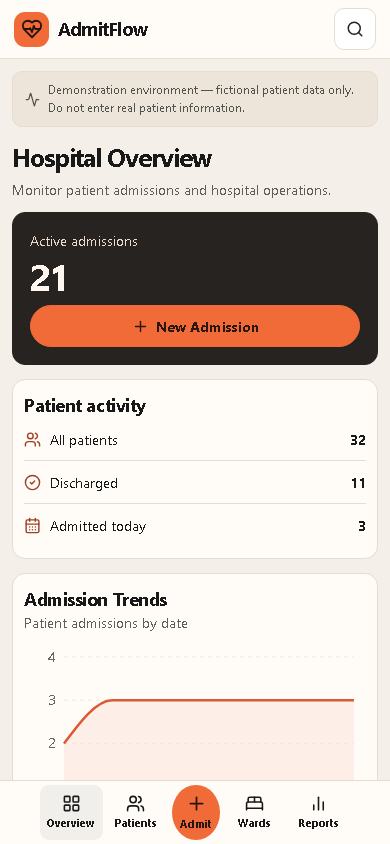
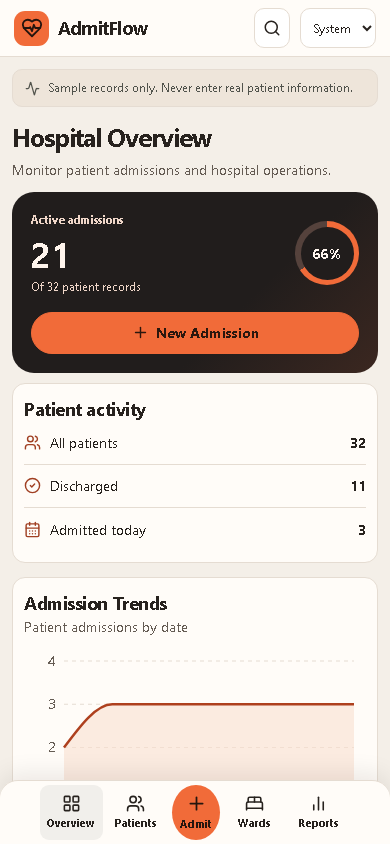
Add admissions themes and handle API availability failures

diff --git a/frontend/src/App.tsx b/frontend/src/App.tsx
@@ -6,6 +6,7 @@ import {motion,useReducedMotion} from 'motion/react'
 import {Area,AreaChart,CartesianGrid,ResponsiveContainer,Tooltip,XAxis,YAxis} from 'recharts'
 import {api,base,businessDay,displayDate,initials,type Catalog,type Page,type Patient,type Summary} from './api'
 import {Admission,Dialog} from './forms'
+import {ThemeControl} from './theme'
 
 const nav = [['/','Overview',LayoutGrid],['/patients','Patients',Users],['/wards','Wards',BedDouble],['/reports','Reports',ChartNoAxesColumn]] as const
 type Overlay = {kind:'new'} | {kind:'edit'|'detail'|'delete'|'discharge';patient:Patient}
@@ -25,7 +26,7 @@ function New({open}:{open:Open}) {
   return <button className="primary" onClick={()=>open({kind:'new'})}><Plus size={17}/> New Admission</button>
 }
 function DataState({error,retry}:{error:boolean;retry:()=>void}) {
-  return error?<div role="alert" className="panel empty">Unable to load data. <button onClick={retry}>Try again</button></div>:<div className="panel loading" role="status">Loading…</div>
+  return error?<div role="alert" className="panel empty">Could not load admissions. <button onClick={retry}>Try again</button></div>:<div className="panel loading" role="status">Loading…</div>
 }
 function Heading({title,description,children}:{title:string;description:string;children?:React.ReactNode}) {
   return <div className="heading"><div><h1>{title}</h1><p>{description}</p></div><div className="row">{children}</div></div>
@@ -35,7 +36,7 @@ function Metrics({summary}:{summary:Summary}) {
   return <div className="metrics">{metrics.map(([label,value,subtitle,Icon])=><section key={label} className="panel metric"><span className="metric-icon"><Icon size={19}/></span><span>{label}</span><strong>{value}</strong><small>{subtitle}</small></section>)}</div>
 }
 function Trend({summary}:{summary:Summary}) {
-  return <section className="panel"><h2>Admission Trends</h2><p className="muted">Patient admissions by date</p><div className="chart" role="img" aria-label={summary.trend.map(point=>point.date+': '+point.count).join(', ') || 'No admissions in this period'}><ResponsiveContainer width="100%" height="100%"><AreaChart data={summary.trend.map(point=>({...point,day:point.date.slice(5)}))} margin={{left:-20,right:12,top:12}}><CartesianGrid vertical={false} stroke="#eae7e2" strokeDasharray="4 4"/><XAxis dataKey="day" tickLine={false} axisLine={false}/><YAxis allowDecimals={false} tickLine={false} axisLine={false}/><Tooltip/><Area type="monotone" dataKey="count" name="Admissions" fill="#fce6de" stroke="#db5933" strokeWidth={2.5} isAnimationActive={false}/></AreaChart></ResponsiveContainer></div></section>
+  return <section className="panel"><h2>Admission Trends</h2><p className="muted">Patient admissions by date</p><div className="chart" role="img" aria-label={summary.trend.map(point=>point.date+': '+point.count).join(', ') || 'No admissions in this period'}><ResponsiveContainer width="100%" height="100%"><AreaChart data={summary.trend.map(point=>({...point,day:point.date.slice(5)}))} margin={{left:-20,right:12,top:12}}><CartesianGrid vertical={false} stroke="var(--line)" strokeDasharray="4 4"/><XAxis dataKey="day" tickLine={false} axisLine={false}/><YAxis allowDecimals={false} tickLine={false} axisLine={false}/><Tooltip contentStyle={{background:"var(--surface)",borderColor:"var(--line)",color:"var(--ink)"}} itemStyle={{color:"var(--ink)"}}/><Area type="monotone" dataKey="count" name="Admissions" fill="var(--chart-fill)" stroke="var(--chart-stroke)" strokeWidth={2.5} isAnimationActive={false}/></AreaChart></ResponsiveContainer></div></section>
 }
 function Distribution({title,entries}:{title:string;entries:[string,number][]}) {
   const highest=Math.max(1,...entries.map(([,number])=>number))
@@ -49,6 +50,7 @@ function PatientRows({rows,catalog,open,sort,onSort}:{rows:Patient[];catalog:Cat
   </tr>)}</tbody></table>
 }
 function Overview({summary,catalog,open}:{summary:Summary;catalog:Catalog;open:Open}) {
+  const activeShare=summary.total ? Math.round(summary.admitted / summary.total * 100) : 0
   const recent=useQuery({queryKey:['patients','recent'],queryFn:()=>api<Page>('/patients?page_size=5&sort_by=created_at')})
   return <>
     <Heading title="Hospital Overview" description="Monitor patient admissions and hospital operations.">
@@ -57,8 +59,12 @@ function Overview({summary,catalog,open}:{summary:Summary;catalog:Catalog;open:O
     <div className="overview-workspace">
       <aside className="overview-queue">
         <section className="panel priority">
-          <span>Active admissions</span>
-          <strong>{summary.admitted}</strong>
+          <div className="priority-content">
+            <div><h2>Active admissions</h2><strong>{summary.admitted}</strong><p>Of {summary.total} patient records</p></div>
+            <div className="admission-ring" style={{background: 'conic-gradient(var(--accent) '+activeShare+'%, var(--ring-track) 0)'}}>
+              <span aria-label={activeShare+'% of records are active'}>{activeShare}%</span>
+            </div>
+          </div>
           <New open={open}/>
         </section>
         <section className="panel queue-links">
@@ -180,8 +186,8 @@ export default function App() {
   const close=()=>open(null)
   const saved=(message:string)=>{close();setNotice(message);for(const key of ['patients','summary','reports'])void cache.invalidateQueries({queryKey:[key]})}
   const lookups=catalog.data
-  return <><a className="skip" href="#main" onClick={event=>{event.preventDefault();document.getElementById('main')?.focus()}}>Skip to content</a><header className="top"><div className="top-inner"><Link to="/" className="brand"><span><HeartPulse size={22}/></span>AdmitFlow</Link><nav aria-label="Primary navigation" className="desktop-nav">{nav.map(([href,label])=><NavLink key={href} to={href} end={href==='/'}>{label}</NavLink>)}</nav><div className="row top-actions"><button className="icon" aria-label="Search patients" onClick={()=>{navigate('/patients');requestAnimationFrame(()=>document.querySelector<HTMLInputElement>('.search input')?.focus())}}><Search size={18}/></button><span className="workspace"><span/> Demo workspace</span><New open={open}/></div></div></header>
-    <motion.main id="main" tabIndex={-1} initial={reduced?false:{opacity:0,y:6}} animate={{opacity:1,y:0}} transition={{duration:.2}}><div className="demo"><Activity size={15}/> Demonstration environment — fictional patient data only. Do not enter real patient information.</div>
+  return <><a className="skip" href="#main" onClick={event=>{event.preventDefault();document.getElementById('main')?.focus()}}>Skip to content</a><header className="top"><div className="top-inner"><Link to="/" className="brand"><span><HeartPulse size={22}/></span>AdmitFlow</Link><nav aria-label="Primary navigation" className="desktop-nav">{nav.map(([href,label])=><NavLink key={href} to={href} end={href==='/'}>{label}</NavLink>)}</nav><div className="row top-actions"><button className="icon" aria-label="Search patients" onClick={()=>{navigate('/patients');requestAnimationFrame(()=>document.querySelector<HTMLInputElement>('.search input')?.focus())}}><Search size={18}/></button><ThemeControl/><New open={open}/></div></div></header>
+    <motion.main id="main" tabIndex={-1} initial={reduced?false:{opacity:0,y:6}} animate={{opacity:1,y:0}} transition={{duration:.2}}><div className="demo"><Activity size={15}/> Sample records only. Never enter real patient information.</div>
     {lookups&&summary.data?<Routes><Route path="/" element={<Overview catalog={lookups} summary={summary.data} open={open}/>}/><Route path="/patients" element={<Directory catalog={lookups} summary={summary.data} open={open}/>}/><Route path="/wards" element={<Wards catalog={lookups} summary={summary.data} open={open}/>}/><Route path="/reports" element={<Reports catalog={lookups}/>}/><Route path="*" element={<Heading title="Page not found" description="Return to the overview to continue."><Link className="button" to="/">Overview</Link></Heading>}/></Routes>:<DataState error={catalog.isError||summary.isError} retry={()=>{void catalog.refetch();void summary.refetch()}}/>}</motion.main>
     <nav className="mobile-nav" aria-label="Mobile navigation">{nav.map(([href,label,Icon],i)=><div key={href}>{i===2&&<button className="mobile-admit" onClick={()=>open({kind:'new'})}><Plus size={21}/>Admit</button>}<NavLink to={href} end={href==='/'}><Icon size={19}/>{label}</NavLink></div>)}</nav>
     {overlay&&((overlay.kind==='delete'||overlay.kind==='discharge')?<Confirm key={overlay.kind} kind={overlay.kind} patient={overlay.patient} close={close} saved={saved}/>:lookups?overlay.kind==='detail'?<Details patient={overlay.patient} catalog={lookups} open={open} close={close}/>:<Admission key={overlay.kind} patient={overlay.kind==='new'?undefined:overlay.patient} catalog={lookups} close={close} saved={saved}/>:<Dialog title="New Patient Admission" close={close}><div className="dialog-body"><DataState error={catalog.isError} retry={()=>void catalog.refetch()}/></div></Dialog>)}

diff --git a/frontend/src/style.css b/frontend/src/style.css
@@ -221,3 +221,94 @@ dialog::backdrop{background:#22181080}
   .directory-metrics .metric{grid-template-columns:minmax(0,1fr) auto}
   .directory-metrics .metric-icon{display:none}
 }
+/* Admissions theme and overview */
+:root {
+  color-scheme: light;
+  color: var(--ink);
+  --chart-fill: #f9dfd1;
+  --chart-stroke: #ae401e;
+  --ring-track: #55423c;
+  --priority-surface: #211d1c;
+  --focus: #9d3d20;
+  --priority-ink: #fff5ed;
+}
+:focus-visible { outline-color: var(--focus); }
+.theme-control select { font-size: 12px; min-height: 40px; padding-inline: 8px; }
+.priority {
+  background: linear-gradient(135deg, var(--priority-surface) 63%, #3b2720);
+  color: var(--priority-ink);
+  border: 0;
+  border-radius: 22px;
+  padding: 20px;
+}
+.priority-content { display: flex; justify-content: space-between; align-items: center; gap: 8px; }
+.priority-content h2, .priority-content p { font-size: 12px; color: #efd6c8; }
+.priority-content strong { display: block; font-size: clamp(35px, 4vw, 56px); line-height: 1; margin-block: 7px; }
+.admission-ring {
+  flex: 0 0 53px;
+  height: 53px;
+  border-radius: 50%;
+  display: grid;
+  place-items: center;
+}
+.admission-ring span {
+  display: grid;
+  place-items: center;
+  border-radius: 50%;
+  width: 43px;
+  height: 43px;
+  background: var(--priority-surface);
+  font-weight: 700;
+}
+.priority > button { justify-self: stretch; margin-top: 9px; }
+.chart .recharts-cartesian-axis-tick-value { fill: var(--muted); }
+@media(max-width:850px) {
+  .top-actions { flex-wrap: nowrap; }
+  .top-actions .icon { min-width: 36px; width: 36px; min-height: 40px; }
+}
+@media(max-width:600px) {
+  .priority { padding: 19px; }
+  .admission-ring { flex-basis: 64px; height: 64px; }
+  .admission-ring span { width: 53px; height: 53px; }
+  .overview-queue { gap: 10px; }
+  .mobile-nav { border-radius: 18px 18px 0 0; box-shadow: 0 -6px 25px #16110d16; }
+}
+/* Both explicit and system dark modes use the same component tokens. */
+:root[data-theme="dark"]{color-scheme: dark; --ink:#f6ede6; --muted:#c4b7ae; --line:#51433c; --surface:#2a2421; --accent:#ff8757; --focus:#ffab86; --chart-fill:#59352a; --chart-stroke:#ff9b73; --ring-track:#55423c; --dark-bed:#1e1a18; --dark-inset:#362d28; --dark-hover:#43352e; background:#1e1a18;}
+:root[data-theme="dark"] button,:root[data-theme="dark"] .button,:root[data-theme="dark"] input,:root[data-theme="dark"] select,:root[data-theme="dark"] .skip,:root[data-theme="dark"] .menu,:root[data-theme="dark"] .menu button,:root[data-theme="dark"] dialog{color:var(--ink);background:var(--surface)}
+:root[data-theme="dark"] .top,:root[data-theme="dark"] .panel,:root[data-theme="dark"] .mobile-nav{background:var(--surface)}
+:root[data-theme="dark"] .desktop-nav,:root[data-theme="dark"] .demo,:root[data-theme="dark"] .dialog-head,:root[data-theme="dark"] .dialog-foot,:root[data-theme="dark"] .directory-panel .filters,:root[data-theme="dark"] .directory-panel .patients-table th,:root[data-theme="dark"] .patients-table th,:root[data-theme="dark"] .notice{background:var(--dark-inset);color:var(--muted)}
+:root[data-theme="dark"] .desktop-nav a.active,:root[data-theme="dark"] .mobile-nav a.active{background:var(--dark-hover);color:var(--ink)}
+:root[data-theme="dark"] button:hover,:root[data-theme="dark"] .button:hover,:root[data-theme="dark"] .menu button:hover,:root[data-theme="dark"] .action-menu summary:hover,:root[data-theme="dark"] .patients-table tr:hover td{background:var(--dark-hover)}
+:root[data-theme="dark"] .directory-panel .patients-table tbody tr:nth-child(even){background:var(--dark-inset)}
+:root[data-theme="dark"] .priority{background:linear-gradient(135deg,#181514 63%,#38241c);color:var(--priority-ink)}
+:root[data-theme="dark"] .directory-metrics .metric:nth-child(2){background:#191513;color:var(--priority-ink)}
+:root[data-theme="dark"] .admitted{background:#213b2d;color:#a3ecc1}
+:root[data-theme="dark"] .discharged{background:#28374b;color:#c6dcff}
+:root[data-theme="dark"] .error,:root[data-theme="dark"] .menu button.error{color:#ffaaa2}
+:root[data-theme="dark"] .danger,:root[data-theme="dark"] .danger:hover{background:#98352f;border-color:#98352f;color:#fff6f2}
+:root[data-theme="dark"] .loading{background:var(--dark-inset);animation:none}
+:root[data-theme="dark"] progress,:root[data-theme="dark"] progress::-webkit-progress-bar{background:var(--dark-hover)}
+:root[data-theme="dark"] .queue-links svg{color:var(--accent)}
+:root[data-theme="dark"] button.primary{background:var(--accent);color:#2b170e}
+:root[data-theme="dark"] button.primary:hover{background:#ffad8a;color:#2b170e}
+@media (prefers-color-scheme:dark) {
+:root[data-theme="system"]{color-scheme: dark; --ink:#f6ede6; --muted:#c4b7ae; --line:#51433c; --surface:#2a2421; --accent:#ff8757; --focus:#ffab86; --chart-fill:#59352a; --chart-stroke:#ff9b73; --ring-track:#55423c; --dark-bed:#1e1a18; --dark-inset:#362d28; --dark-hover:#43352e; background:#1e1a18;}
+:root[data-theme="system"] button,:root[data-theme="system"] .button,:root[data-theme="system"] input,:root[data-theme="system"] select,:root[data-theme="system"] .skip,:root[data-theme="system"] .menu,:root[data-theme="system"] .menu button,:root[data-theme="system"] dialog{color:var(--ink);background:var(--surface)}
+:root[data-theme="system"] .top,:root[data-theme="system"] .panel,:root[data-theme="system"] .mobile-nav{background:var(--surface)}
+:root[data-theme="system"] .desktop-nav,:root[data-theme="system"] .demo,:root[data-theme="system"] .dialog-head,:root[data-theme="system"] .dialog-foot,:root[data-theme="system"] .directory-panel .filters,:root[data-theme="system"] .directory-panel .patients-table th,:root[data-theme="system"] .patients-table th,:root[data-theme="system"] .notice{background:var(--dark-inset);color:var(--muted)}
+:root[data-theme="system"] .desktop-nav a.active,:root[data-theme="system"] .mobile-nav a.active{background:var(--dark-hover);color:var(--ink)}
+:root[data-theme="system"] button:hover,:root[data-theme="system"] .button:hover,:root[data-theme="system"] .menu button:hover,:root[data-theme="system"] .action-menu summary:hover,:root[data-theme="system"] .patients-table tr:hover td{background:var(--dark-hover)}
+:root[data-theme="system"] .directory-panel .patients-table tbody tr:nth-child(even){background:var(--dark-inset)}
+:root[data-theme="system"] .priority{background:linear-gradient(135deg,#181514 63%,#38241c);color:var(--priority-ink)}
+:root[data-theme="system"] .directory-metrics .metric:nth-child(2){background:#191513;color:var(--priority-ink)}
+:root[data-theme="system"] .admitted{background:#213b2d;color:#a3ecc1}
+:root[data-theme="system"] .discharged{background:#28374b;color:#c6dcff}
+:root[data-theme="system"] .error,:root[data-theme="system"] .menu button.error{color:#ffaaa2}
+:root[data-theme="system"] .danger,:root[data-theme="system"] .danger:hover{background:#98352f;border-color:#98352f;color:#fff6f2}
+:root[data-theme="system"] .loading{background:var(--dark-inset);animation:none}
+:root[data-theme="system"] progress,:root[data-theme="system"] progress::-webkit-progress-bar{background:var(--dark-hover)}
+:root[data-theme="system"] .queue-links svg{color:var(--accent)}
+:root[data-theme="system"] button.primary{background:var(--accent);color:#2b170e}
+:root[data-theme="system"] button.primary:hover{background:#ffad8a;color:#2b170e}
+}

diff --git a/frontend/src/api.ts b/frontend/src/api.ts
@@ -21,12 +21,25 @@ export class ApiError extends Error {
   }
 }
 export async function api<T>(path:string, options?:RequestInit):Promise<T> {
-  const response = await fetch(base+path, {...options, headers:options?.body ? {'Content-Type':'application/json'} : undefined})
-  if (!response.ok) {
-    const body = await response.json().catch(() => ({}))
-    throw new ApiError(body.detail || 'The server could not complete the request.')
+  const headers = new Headers(options?.headers)
+  if (options?.body && !headers.has('Content-Type')) headers.set('Content-Type', 'application/json')
+  let response: Response
+  try {
+    response = await fetch(base + path, {...options, headers})
+  } catch (error) {
+    if (options?.signal?.aborted) throw error
+    throw new ApiError('Could not reach the admissions service. Check your connection and try again.')
   }
-  return response.status === 204 ? undefined as T : response.json()
+  if (response.status === 204) return undefined as T
+  const payload = await response.json().catch(() => null)
+  if (!response.ok) {
+    const detail = payload?.detail
+    const issues = Array.isArray(detail) && detail.every(issue =>
+      issue && Array.isArray(issue.loc) && typeof issue.msg === 'string')
+    throw new ApiError(typeof detail === 'string' || issues ? detail : 'The admissions service could not complete the request. Try again.')
+  }
+  if (payload === null) throw new ApiError('The admissions service returned an unexpected response. Try again shortly.')
+  return payload as T
 }
 export function businessDay() {
   return new Intl.DateTimeFormat('en-CA', { timeZone:'Asia/Kolkata',year:'numeric',month:'2-digit',day:'2-digit' }).format(new Date())

diff --git a/e2e/theme.spec.ts b/e2e/theme.spec.ts
@@ -1,0 +1,25 @@
+import {test, expect} from '../frontend/node_modules/@playwright/test'
+
+test('appearance follows the system and persists a manual choice', async ({page}, info) => {
+  test.skip(info.project.name === 'mobile')
+  await page.emulateMedia({colorScheme: 'dark', reducedMotion: 'reduce'})
+  await page.goto('/')
+  const root = page.locator('html')
+  const theme = page.getByRole('combobox', {name: 'Appearance'})
+  await expect(root).toHaveCSS('color-scheme', 'dark')
+  await theme.selectOption('light')
+  await expect(root).toHaveCSS('color-scheme', 'light')
+  await page.reload()
+  await expect(theme).toHaveValue('light')
+  await theme.selectOption('dark')
+  await expect(root).toHaveCSS('color-scheme', 'dark')
+  await expect(page.getByRole('heading', {name:'Hospital Overview'})).toBeVisible()
+  await expect(page.locator('.recharts-area').first()).toBeVisible()
+  await page.getByRole('link',{name:'Patients',exact:true}).click()
+  await expect(page.locator('tbody tr').first()).toBeVisible()
+  await page.getByRole('button',{name:'New Admission'}).last().click()
+  await expect(page.getByRole('dialog')).toBeVisible()
+  await expect(page.getByRole('dialog')).toHaveCSS('color', 'rgb(246, 237, 230)')
+  await page.keyboard.press('Escape')
+  await expect(page.getByRole('dialog')).toHaveCount(0)
+})

diff --git a/frontend/tests/api.test.ts b/frontend/tests/api.test.ts
@@ -1,0 +1,21 @@
+// @vitest-environment jsdom
+import {afterEach, expect, test, vi} from 'vitest'
+import {api, ApiError} from '../src/api'
+
+afterEach(() => vi.unstubAllGlobals())
+
+test('reports a hosting interstitial as a service error', async () => {
+  vi.stubGlobal('fetch', vi.fn().mockResolvedValue(new Response('<html>Waking up</html>')))
+  await expect(api('/patients')).rejects.toThrow('unexpected response')
+})
+
+test('keeps structured validation errors available to forms', async () => {
+  const detail = [{loc: ['body', 'name'], msg: 'Enter a name.'}]
+  vi.stubGlobal('fetch', vi.fn().mockResolvedValue(Response.json({detail}, {status: 422})))
+  await expect(api('/patients')).rejects.toMatchObject({detail})
+})
+
+test('reports a failed connection through the API error contract', async () => {
+  vi.stubGlobal('fetch', vi.fn().mockRejectedValue(new TypeError('Failed to fetch')))
+  await expect(api('/patients')).rejects.toBeInstanceOf(ApiError)
+})

diff --git a/frontend/src/theme.tsx b/frontend/src/theme.tsx
@@ -1,0 +1,24 @@
+import {useState} from 'react'
+
+const storageKey = 'admitflow-theme'
+const modes = ['system', 'light', 'dark'] as const
+type Mode = typeof modes[number]
+
+export function ThemeControl() {
+  const [mode, setMode] = useState<Mode>(() => {
+    const current = document.documentElement.dataset.theme
+    return current === 'light' || current === 'dark' ? current : 'system'
+  })
+
+  return <label className="theme-control">
+    <span className="sr-only">Appearance</span>
+    <select value={mode} onChange={event => {
+      const next = event.currentTarget.value as Mode
+      setMode(next)
+      document.documentElement.dataset.theme = next
+      try { localStorage.setItem(storageKey, next) } catch { /* The choice still applies for this visit. */ }
+    }}>
+      {modes.map(value => <option key={value} value={value}>{value[0].toUpperCase() + value.slice(1)}</option>)}
+    </select>
+  </label>
+}

diff --git a/frontend/index.html b/frontend/index.html
@@ -1,1 +1,18 @@
-<!doctype html><html lang="en"><head><meta charset="UTF-8"><meta name="viewport" content="width=device-width, initial-scale=1"><meta name="theme-color" content="#F6F5F2"><title>AdmitFlow · Patient admissions</title></head><body><div id="root"></div><script type="module" src="/src/main.tsx"></script></body></html>
+<!doctype html>
+<html lang="en" data-theme="system">
+<head>
+  <meta charset="utf-8">
+  <meta name="viewport" content="width=device-width, initial-scale=1">
+  <script>
+    try {
+      const theme = localStorage.getItem('admitflow-theme')
+      if (theme === 'light' || theme === 'dark') document.documentElement.dataset.theme = theme
+    } catch {}
+  </script>
+  <title>AdmitFlow · Patient admissions</title>
+</head>
+<body>
+  <div id="root"></div>
+  <script type="module" src="/src/main.tsx"></script>
+</body>
+</html>

diff --git a/backend/app/main.py b/backend/app/main.py
@@ -6,9 +6,11 @@ from collections import Counter
 from datetime import date, timedelta
 from typing import Annotated, Literal
 
-from fastapi import Depends, FastAPI, HTTPException, Query, Response
+from fastapi import Depends, FastAPI, HTTPException, Query, Request, Response
 from fastapi.middleware.cors import CORSMiddleware
+from fastapi.responses import JSONResponse
 from sqlalchemy import func, select, update
+from sqlalchemy.exc import OperationalError, SQLAlchemyError, TimeoutError as DatabaseTimeout
 from sqlalchemy.orm import Session as DatabaseSession
 
 from .catalog import DEPARTMENTS, DOCTORS, WARDS, lookups, today, utc_now
@@ -19,10 +21,18 @@ app = FastAPI(title="AdmitFlow", version="1.0")
 API = "/api/v1"
 app.add_middleware(
     CORSMiddleware,
-    allow_origins=os.getenv("ALLOWED_ORIGINS", "http://localhost:5173,http://127.0.0.1:5173").split(","),
+    allow_origins=[origin.strip().rstrip("/") for origin in
+                   os.getenv("ALLOWED_ORIGINS", "http://localhost:5173,http://127.0.0.1:5173").split(",")
+                   if origin.strip()],
     allow_methods=["GET", "POST", "PATCH", "DELETE"],
     allow_headers=["Content-Type"],
 )
+
+
+@app.exception_handler(OperationalError)
+@app.exception_handler(DatabaseTimeout)
+async def database_unavailable(_request: Request, _error: Exception):
+    return JSONResponse(status_code=503, content={"detail": "Database unavailable. Try again shortly."})
 
 
 @app.middleware("http")
@@ -96,7 +106,6 @@ def health():
 
 @app.get("/ready")
 def ready(db: DB):
-    from sqlalchemy.exc import SQLAlchemyError
     try:
         db.execute(select(Patient.id).limit(1))
     except SQLAlchemyError:

diff --git a/backend/tests/test_api.py b/backend/tests/test_api.py
@@ -119,3 +119,18 @@ def test_seed_is_repeatable(client, payload):
     seed.seed()
     seed.seed()
     assert client.get(PATIENTS).json()["total"] == 33
+
+
+
+def test_database_connection_error_keeps_json_and_cors(client, monkeypatch):
+    from sqlalchemy.exc import OperationalError
+
+    def unavailable(_):
+        raise OperationalError("SELECT 1", {}, OSError("connection closed"))
+
+    monkeypatch.setattr(main, "summarize", unavailable)
+    origin = "http://localhost:5173"
+    response = client.get(API + "/dashboard/summary", headers={"Origin": origin})
+    assert response.status_code == 503
+    assert response.json() == {"detail": "Database unavailable. Try again shortly."}
+    assert response.headers["access-control-allow-origin"] == origin

diff --git a/README.md b/README.md
@@ -1,8 +1,10 @@
 # AdmitFlow
 
-AdmitFlow is the DScribe Round 1 patient admission management demo by Shadabur Rahaman. It uses a React and TypeScript SPA, a FastAPI REST API, and PostgreSQL for the hosted architecture. SQLite is the default for local development.
+AdmitFlow manages a hospital admissions queue for the DScribe Round 1 assignment. It uses React and TypeScript, a FastAPI REST API, and PostgreSQL in production. Local development defaults to SQLite.
 
-**Demonstration environment — fictional patient data only. Do not enter real patient information.**
+**Sample records only. Never enter real patient information.**
+
+[Open AdmitFlow](https://shadabur-rahaman.github.io/admitflow/#/) · [API documentation](https://admitflow-api.onrender.com/docs)
 
 ## Features
 
@@ -10,6 +12,7 @@ AdmitFlow is the DScribe Round 1 patient admission management demo by Shadabur R
 - Search names and combine ward, department, doctor, status and admission-date filters. The API handles sorting and pagination.
 - View the hospital overview, ward activity and date-filtered reports. Export the matching records as CSV.
 - Enter data in a keyboard-accessible drawer with frontend and API validation.
+- Use Light, Dark, or System appearance. The preference is stored on your device.
 
 ## Screenshots
 
@@ -47,19 +50,13 @@ React Router resolves the page and URL filters. TanStack Query loads API data an
 
 Run `python -m pytest -q` from `backend`, then `npm test` and `npm run build` from `frontend`. With both local servers running, run `npx playwright install chromium` and `npx playwright test` from `frontend`. Set `PLAYWRIGHT_BASE_URL` to test a different environment containing fictional data.
 
-Verified locally using Python 3.14 and SQLite: **31 backend tests passed**, including reopening the database in a separate process. See [release status](docs/RELEASE_STATUS.md) for outstanding verification.
-
 ## Deploy
 
-The public repository has been created. See the [release status](docs/RELEASE_STATUS.md) and [submission checklist](docs/FINAL_SUBMISSION_CHECKLIST.md) for deployment and acceptance status.
+GitHub Actions builds the frontend for GitHub Pages under the repository base path. Set the repository Actions variable `VITE_API_BASE_URL` to the public HTTPS Render origin.
 
-1. Use the dedicated Neon project named admitflow. The production branch has revision 0001 and 32 fictional records. Keep its connection string in the hosting environment and retain its TLS options.
-2. Connect the public source repository to Render with the blueprint in `render.yaml`. Set `DATABASE_URL` to the Neon connection string. Enter the exact Vercel production origin in `ALLOWED_ORIGINS`. Render applies migrations and initializes the reference catalogs when starting.
-3. In a Render shell or from an authorized local terminal configured for the same database, run `python -m app.seed` from `backend` once to populate the demo.
-4. Import the repository in Vercel with `frontend` as the root and set `VITE_API_BASE_URL` to the HTTPS Render origin. Deploy and verify the API `/ready` endpoint and the complete workflow.
-5. Add the verified live URLs to this README before submission.
+Render uses the existing `render.yaml` blueprint. Set its `DATABASE_URL` secret to the AdmitFlow Neon connection string and `ALLOWED_ORIGINS` to the Pages origin without the repository path. The start command runs Alembic and initializes catalog lookups before serving. The seeded patient records are separate from catalog initialization.
 
-Hosting documentation: [Render Blueprint](https://render.com/docs/blueprint-spec) · [Vite on Vercel](https://vercel.com/docs/frameworks/frontend/vite) · [Neon connection strings](https://neon.com/docs/connect/connect-from-any-app).
+Use [API readiness](https://admitflow-api.onrender.com/ready) to check database connectivity. See the [visual comparison](docs/APPEARANCE_AND_RELIABILITY.md) for the redesigned workspace.
 
 The public demonstration has no login. Access control, audit trails, retention controls and operational safeguards would be required before a deployment handling real patient information.
 

diff --git a/docs/APPEARANCE_AND_RELIABILITY.md b/docs/APPEARANCE_AND_RELIABILITY.md
@@ -1,0 +1,16 @@
+# Appearance and reliability
+
+The desktop still, Screenshot 2026-11-24 234521(1).png, informed the three-column overview with a primary workspace and a compact recent-admissions rail. The mobile still, ebda32157054db6a498e698c9c840f64(1).webp, informed the full-width coral action on a charcoal priority card and the short navigation row. The priority ring visualizes the share of records currently admitted. It uses the dashboard API counts.
+
+| Screen | Before | After |
+| --- | --- | --- |
+| Desktop overview | [Before](../screenshots/before-theme/desktop-overview.png) | [After](../screenshots/desktop-overview.png) |
+| Desktop directory | [Before](../screenshots/before-theme/desktop-patients.png) | [After](../screenshots/desktop-patients.png) |
+| Mobile overview | [Before](../screenshots/before-theme/mobile-overview.png) | [After](../screenshots/mobile-overview.png) |
+| Mobile directory | [Before](../screenshots/before-theme/mobile-patients.png) | [After](../screenshots/mobile-patients.png) |
+| Admission drawer | [Before](../screenshots/before-theme/admission-drawer.png) | [After](../screenshots/admission-drawer.png) |
+| Dark mode | — | [Overview](../screenshots/dark-overview.png) · [Admission drawer](../screenshots/dark-admission-drawer.png) |
+
+The reference transfer host could not be resolved for 1f99cfe90c5d8de81c7f073839422361(1).mp4, 9dd0cab085199516ee63b383d3560ec1(1).mp4, or 2a9519af1f3e30dc968fda2df664479f(1).mp4. Video timing and frame comparisons are outstanding.
+
+A successful HTTP response containing HTML previously threw a JSON parsing exception. The API client now maps it to retry guidance and preserves structured validation issues. On a local simulated database disconnect, FastAPI now returns a CORS-enabled JSON 503. These are independently reproduced failure modes. Live Render logs and production failure reproduction were unavailable due to network access.
